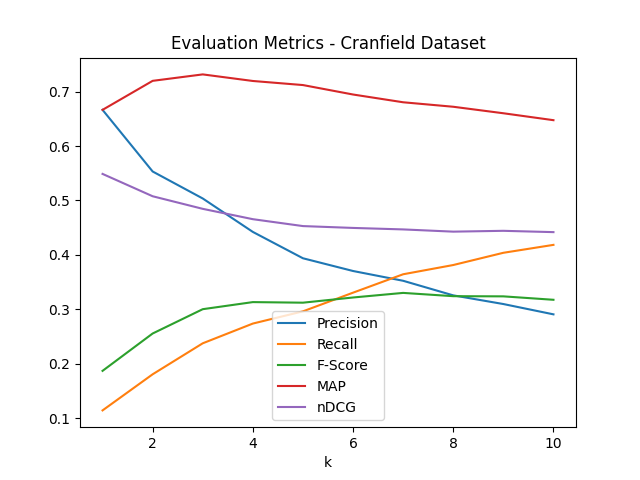
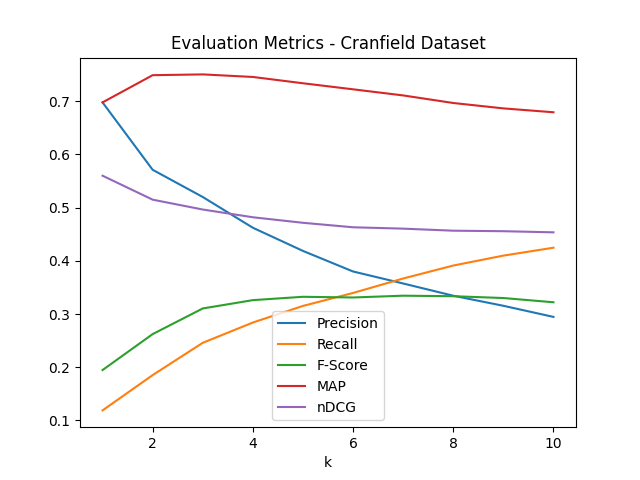
i hope this works

diff --git a/project/queryExpansion.py b/project/queryExpansion.py
@@ -1,0 +1,39 @@
+from util import *
+
+# imports 
+
+class QueryExpansion():
+    
+    def expansion(self, collection):
+        expand_collection = collection
+        for i, col in enumerate(collection):
+            for j, sentence in enumerate(col):
+                expand_sentence = []
+                for token in sentence:
+                    word = token.lower()
+                    if word.isalpha() == True:
+                        synsets = wordnet.synsets(word)
+                        if len(synsets) > 0:
+                            expand_sentence.append(synsets[0].name().split('.')[0])
+                        else:
+                            expand_sentence.append(word)
+                    else:
+                        if '-' in word:
+                            synsets = wordnet.synsets(word)
+                            if len(synsets) > 0:
+                                expand_sentence.append(synsets[0].name().split('.')[0])
+                            else:
+                                word1 = word.split('-')[0]
+                                word2 = word.split('-')[1]
+                                synsets1 = wordnet.synsets(word1)
+                                synsets2 = wordnet.synsets(word2)
+                            if len(synsets1) > 0:
+                                expand_sentence.append(synsets1[0].name().split('.')[0])
+                            else:
+                                expand_sentence.append(word)
+                            if len(synsets2) > 0:
+                                expand_sentence.append(synsets2[0].name().split('.')[0])
+                            else:
+                                expand_sentence.append(word)
+        expand_collection[i][j] = sentence + expand_sentence
+        return expand_collection

diff --git a/project/main.py b/project/main.py
@@ -4,6 +4,7 @@ from inflectionReduction import InflectionReduction
 from stopwordRemoval import StopwordRemoval
 from informationRetrieval import InformationRetrieval
 from evaluation import Evaluation
+from queryExpansion import QueryExpansion
 
 from sys import version_info
 import argparse
@@ -34,6 +35,7 @@ class SearchEngine:
 
 		self.informationRetriever = InformationRetrieval()
 		self.evaluator = Evaluation()
+		self.queryExpansion = QueryExpansion()
 
 
 	def segmentSentences(self, text):
@@ -100,6 +102,12 @@ class SearchEngine:
 		preprocessedQueries = stopwordRemovedQueries
 		return preprocessedQueries
 
+	def expandQuery(self, processedQueries):
+		if self.args.qexpander == 'yes':
+			return self.queryExpansion.expansion(processedQueries)
+		else:
+			return processedQueries
+
 	def preprocessDocs(self, docs):
 		"""
 		Preprocess the documents
@@ -149,6 +157,9 @@ class SearchEngine:
 								[item["query"] for item in queries_json]
 		# Process queries 
 		processedQueries = self.preprocessQueries(queries)
+  
+		# Query expansion
+		processedQueries = self.expandQuery(processedQueries)
 
 		# Read documents
 		docs_json = json.load(open(args.dataset + "cran_docs.json", 'r'))[:]
@@ -247,6 +258,8 @@ if __name__ == "__main__":
 	                    help = "Tokenizer Type [naive|ptb]")
 	parser.add_argument('-custom', action = "store_true", 
 						help = "Take custom query as input")
+	parser.add_argument('-qexpander', default = "yes", 
+						help = "Do query expansion [yes|no]")
 	
 	# Parse the input arguments
 	args = parser.parse_args()

diff --git a/project/informationRetrieval.py b/project/informationRetrieval.py
@@ -69,7 +69,8 @@ class InformationRetrieval():
 		# docs_expansion = expansion(docs)
 		docs = [' '.join(list(chain.from_iterable(x))) for x in docs]
 
-		pipe = Pipeline([('count', CountVectorizer(strip_accents='unicode', max_df=0.5)), ('tfid', TfidfTransformer(norm='l2',use_idf=True, smooth_idf=True,sublinear_tf=False))])
+		pipe = Pipeline([('count', CountVectorizer(strip_accents='unicode', max_df=0.5)), 
+                   		 ('tfid', TfidfTransformer(norm='l2',use_idf=True, smooth_idf=True,sublinear_tf=False))])
 		self.pipe = pipe
 		tfidf_docs = pipe.fit_transform(docs)
 		self.tfidf_docs = tfidf_docs
@@ -121,8 +122,9 @@ class InformationRetrieval():
 		# return doc_IDs_ordered
 
 
-		query_expansion = expansion(queries)
-		tfidf_queries = self.pipe.transform(query_expansion)
+		# query_expansion = expansion(queries)
+		queries = [' '.join(list(chain.from_iterable(x))) for x in queries]
+		tfidf_queries = self.pipe.transform(queries)
 
 		cossimilarity = cosine_similarity(tfidf_queries,self.tfidf_docs)
 		docIDS = self.docIDs
